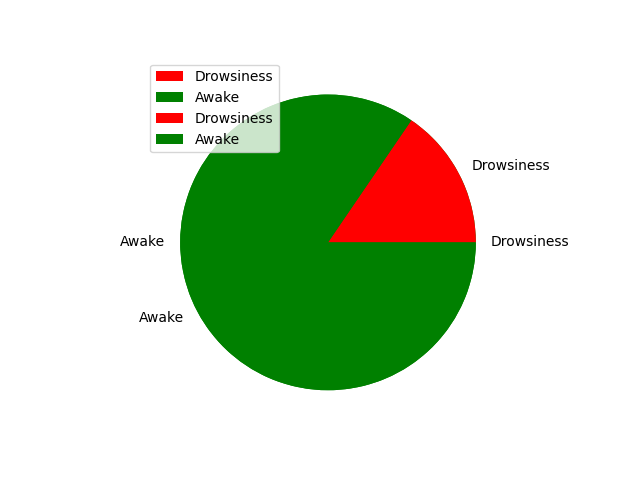
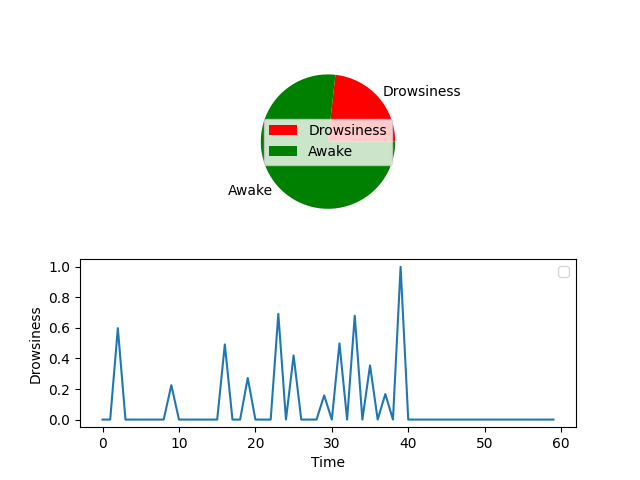
commit

diff --git a/app.py b/app.py
@@ -2,6 +2,7 @@ from flask import Flask,request,render_template,Response,redirect
 import cv2
 import dlib
 import pickle
+import random
 # from config import Config
 # import time
 # import numpy as np
@@ -71,9 +72,7 @@ def gen_frames():
     
     Var.yawn_count=0
     
-    # MAIN LOOP IT WILL RUN ALL THE UNLESS AND
-    # UNTIL THE PROGRAM IS BEING KILLED BY THE
-    # USER
+    
     while True:
         
         
@@ -88,8 +87,6 @@ def gen_frames():
             rightEye = []
             yawn=[]
      
-            # THESE ARE THE POINTS ALLOCATION FOR THE
-            # LEFT EYES IN .DAT FILE THAT ARE FROM 42 TO 47
             for n in range(42, 48):
                 x1 = face_landmarks.part(n).x
                 y1 = face_landmarks.part(n).y
@@ -101,8 +98,7 @@ def gen_frames():
                 y2 = face_landmarks.part(next_point).y
                 cv2.line(frame, (x1, y1), (x2, y2), (0, 255, 0), 1)
      
-            # THESE ARE THE POINTS ALLOCATION FOR THE
-            # RIGHT EYES IN .DAT FILE THAT ARE FROM 36 TO 41
+            
             for n in range(36, 42):
                 x1 = face_landmarks.part(n).x
                 y1 = face_landmarks.part(n).y
@@ -150,14 +146,14 @@ def gen_frames():
                 # wave_obj = simpleaudio.WaveObject.from_wave_file("alarm.mp3")
                 # play_obj = wave_obj.play()
                 # play_obj.wait_done()
-                Var.eye_drow_sec.append(0.50)
+                Var.eye_drow_sec.append(random.uniform(0,1))
                 
 
             Var.eye_drow_sec.append(0)   
             if yawn_data > 0.5:
                 
                 Var.yawn_count=Var.yawn_count+1
-                Var.yawn_sec.append(0.50)
+                Var.yawn_sec.append(random.uniform(0,1))
                 cv2.putText(frame, "Yawning", (100, 450),
                             cv2.FONT_HERSHEY_PLAIN, 2, (21, 56, 210), 3)
                 
@@ -298,16 +294,16 @@ def home():
     print(username)
     # global t
     # global yawn_count
-    deccelerate=sum(Var.eye_drow_sec)+Var.yawn_count+sum(Var.yawn_sec)
+    deccelerate=(sum(Var.eye_drow_sec)+Var.yawn_count+sum(Var.yawn_sec))/3
     print(deccelerate)
     userdetails={'dec':deccelerate}
     print(sum(Var.eye_drow_sec))
     alert=model.predict([[sum(Var.eye_drow_sec),Var.yawn_count,sum(Var.yawn_sec)]])
     print("alert is",alert[0])
     if alert[0]==1:
-        if deccelerate>45:
+        if deccelerate>30:
             userdetails['low']='0'
-            userdetails['high']='5'
+            userdetails['high']='10'
             userdetails['color']='red'
             json_data = {'alert':'true'}   
             # name = "abbas"
@@ -316,26 +312,32 @@ def home():
             # firebase1.post("/contact", new_data)
             u = db.child("contact").child(username).update(json_data)
             print("done")
-            dr=Var.eye_drow_sec.count(0.5)
+            
             ndr=Var.eye_drow_sec.count(0)
+            dr=len(Var.eye_drow_sec)-ndr
+            figure, axis = plt.subplots(2, 1)
             file_path = str(username)+".png"
-            plt.pie([dr,ndr],labels=['Drowsiness','Awake'],colors=['red','green'])
-            plt.legend()
-    
+            figure, axis = plt.subplots(2, 1)
+            axis[0].pie([dr,ndr],labels=['Drowsiness','Awake'],colors=['red','green'])
+            axis[0].legend()
+            axis[1].plot(Var.eye_drow_sec[0:60])
+            axis[1].set_xlabel('Time')
+            axis[1].set_ylabel('Drowsiness')
+            axis[1].legend()
             plt.savefig(file_path)
-            # auth_id = 'MANJKWMTQ3YZLJOWI3MJ'
-            # auth_token = 'ZTk0MzYwNTdkYTJkNTI2MzZlNjRlMTAyNmM0NjRj'
-            # phlo_id = '71b3cd61-3d32-48e2-838f-497a4d06706e' # https://console.plivo.com/phlo/list/
-            # phlo_client = plivo.phlo.RestClient(auth_id=auth_id, auth_token=auth_token)
-            # phlo = phlo_client.phlo.get(phlo_id)
-            # phlo.run() 
+            auth_id = 'MANJKWMTQ3YZLJOWI3MJ'
+            auth_token = 'ZTk0MzYwNTdkYTJkNTI2MzZlNjRlMTAyNmM0NjRj'
+            phlo_id = '71b3cd61-3d32-48e2-838f-497a4d06706e' # https://console.plivo.com/phlo/list/
+            phlo_client = plivo.phlo.RestClient(auth_id=auth_id, auth_token=auth_token)
+            phlo = phlo_client.phlo.get(phlo_id)
+            phlo.run() 
             
             bucket = storage.bucket() # storage bucket
             blob = bucket.blob(file_path)
             blob.upload_from_filename(file_path)
-        elif deccelerate>30:
-            userdetails['low']='5'
-            userdetails['high']='10'
+        elif deccelerate>25:
+            userdetails['low']='10'
+            userdetails['high']='20'
             userdetails['color']='yellow'
             json_data = {'alert':'true'}   
             # name = "abbas"
@@ -344,26 +346,31 @@ def home():
             # firebase1.post("/contact", new_data)
             u = db.child("contact").child(username).update(json_data)
             print("done")
-            dr=Var.eye_drow_sec.count(0.5)
+            
             ndr=Var.eye_drow_sec.count(0)
+            dr=len(Var.eye_drow_sec)-ndr
             file_path = str(username)+".png"
-            plt.pie([dr,ndr],labels=['Drowsiness','Awake'],colors=['red','green'])
-            plt.legend()
-    
+            figure, axis = plt.subplots(2, 1)
+            axis[0].pie([dr,ndr],labels=['Drowsiness','Awake'],colors=['red','green'])
+            axis[0].legend()
+            axis[1].plot(Var.eye_drow_sec[0:60])
+            axis[1].set_xlabel('Time')
+            axis[1].set_ylabel('Drowsiness')
+            axis[1].legend()
             plt.savefig(file_path)
-            # auth_id = 'MANJKWMTQ3YZLJOWI3MJ'
-            # auth_token = 'ZTk0MzYwNTdkYTJkNTI2MzZlNjRlMTAyNmM0NjRj'
-            # phlo_id = '71b3cd61-3d32-48e2-838f-497a4d06706e' # https://console.plivo.com/phlo/list/
-            # phlo_client = plivo.phlo.RestClient(auth_id=auth_id, auth_token=auth_token)
-            # phlo = phlo_client.phlo.get(phlo_id)
-            # phlo.run() 
+            auth_id = 'MANJKWMTQ3YZLJOWI3MJ'
+            auth_token = 'ZTk0MzYwNTdkYTJkNTI2MzZlNjRlMTAyNmM0NjRj'
+            phlo_id = '71b3cd61-3d32-48e2-838f-497a4d06706e' # https://console.plivo.com/phlo/list/
+            phlo_client = plivo.phlo.RestClient(auth_id=auth_id, auth_token=auth_token)
+            phlo = phlo_client.phlo.get(phlo_id)
+            phlo.run() 
             
             bucket = storage.bucket() # storage bucket
             blob = bucket.blob(file_path)
             blob.upload_from_filename(file_path)
         elif deccelerate>20:
-            userdetails['low']='10'
-            userdetails['high']='12'
+            userdetails['low']='20'
+            userdetails['high']='40'
             userdetails['color']='blue'
             json_data = {'alert':'true'}   
             # name = "abbas"
@@ -372,26 +379,31 @@ def home():
             # firebase1.post("/contact", new_data)
             u = db.child("contact").child(username).update(json_data)
             print("done")
-            dr=Var.eye_drow_sec.count(0.5)
+            
             ndr=Var.eye_drow_sec.count(0)
+            dr=len(Var.eye_drow_sec)-ndr
             file_path = str(username)+".png"
-            plt.pie([dr,ndr],labels=['Drowsiness','Awake'],colors=['red','green'])
-            plt.legend()
-    
+            figure, axis = plt.subplots(2, 1)
+            axis[0].pie([dr,ndr],labels=['Drowsiness','Awake'],colors=['red','green'])
+            axis[0].legend()
+            axis[1].plot(Var.eye_drow_sec[0:60])
+            axis[1].set_xlabel('Time')
+            axis[1].set_ylabel('Drowsiness')
+            axis[1].legend()
             plt.savefig(file_path)
-            # auth_id = 'MANJKWMTQ3YZLJOWI3MJ'
-            # auth_token = 'ZTk0MzYwNTdkYTJkNTI2MzZlNjRlMTAyNmM0NjRj'
-            # phlo_id = '71b3cd61-3d32-48e2-838f-497a4d06706e' # https://console.plivo.com/phlo/list/
-            # phlo_client = plivo.phlo.RestClient(auth_id=auth_id, auth_token=auth_token)
-            # phlo = phlo_client.phlo.get(phlo_id)
-            # phlo.run() 
+            auth_id = 'MANJKWMTQ3YZLJOWI3MJ'
+            auth_token = 'ZTk0MzYwNTdkYTJkNTI2MzZlNjRlMTAyNmM0NjRj'
+            phlo_id = '71b3cd61-3d32-48e2-838f-497a4d06706e' # https://console.plivo.com/phlo/list/
+            phlo_client = plivo.phlo.RestClient(auth_id=auth_id, auth_token=auth_token)
+            phlo = phlo_client.phlo.get(phlo_id)
+            phlo.run() 
             
             bucket = storage.bucket() # storage bucket
             blob = bucket.blob(file_path)
             blob.upload_from_filename(file_path)
         else:
-            userdetails['low']='12'
-            userdetails['high']='18'
+            userdetails['low']='40'
+            userdetails['high']='50'
             userdetails['color']='green'
             json_data = {'alert':'true'}   
             # name = "abbas"
@@ -400,35 +412,46 @@ def home():
             # firebase1.post("/contact", new_data)
             u = db.child("contact").child(username).update(json_data)
             print("done")
-            dr=Var.eye_drow_sec.count(0.5)
+            
             ndr=Var.eye_drow_sec.count(0)
+            dr=len(Var.eye_drow_sec)-ndr
             file_path = str(username)+".png"
-            plt.pie([dr,ndr],labels=['Drowsiness','Awake'],colors=['red','green'])
-            plt.legend()
-    
+            figure, axis = plt.subplots(2, 1)
+            axis[0].pie([dr,ndr],labels=['Drowsiness','Awake'],colors=['red','green'])
+            axis[0].legend()
+            axis[1].plot(Var.eye_drow_sec[0:60])
+            axis[1].set_xlabel('Time')
+            axis[1].set_ylabel('Drowsiness')
+            axis[1].legend()
             plt.savefig(file_path)
-            # auth_id = 'MANJKWMTQ3YZLJOWI3MJ'
-            # auth_token = 'ZTk0MzYwNTdkYTJkNTI2MzZlNjRlMTAyNmM0NjRj'
-            # phlo_id = '71b3cd61-3d32-48e2-838f-497a4d06706e' # https://console.plivo.com/phlo/list/
-            # phlo_client = plivo.phlo.RestClient(auth_id=auth_id, auth_token=auth_token)
-            # phlo = phlo_client.phlo.get(phlo_id)
-            # phlo.run() 
+            auth_id = 'MANJKWMTQ3YZLJOWI3MJ'
+            auth_token = 'ZTk0MzYwNTdkYTJkNTI2MzZlNjRlMTAyNmM0NjRj'
+            phlo_id = '71b3cd61-3d32-48e2-838f-497a4d06706e' # https://console.plivo.com/phlo/list/
+            phlo_client = plivo.phlo.RestClient(auth_id=auth_id, auth_token=auth_token)
+            phlo = phlo_client.phlo.get(phlo_id)
+            phlo.run() 
             
             bucket = storage.bucket() # storage bucket
             blob = bucket.blob(file_path)
             blob.upload_from_filename(file_path)
     else:
-        userdetails['low']='Average'
-        userdetails['high']='Speed'
+        userdetails['low']='60'
+        userdetails['high']='80'
         userdetails['color']='green'
         json_data = {'alert':'false'}    
         u = db.child("contact").child(username).update(json_data)
         print("done")
-        dr=Var.eye_drow_sec.count(0.5)
+        
         ndr=Var.eye_drow_sec.count(0)
+        dr=len(Var.eye_drow_sec)-ndr
         file_path = str(username)+".png"
-        plt.pie([dr,ndr],labels=['Drowsiness','Awake'],colors=['red','green'])
-        plt.legend()
+        figure, axis = plt.subplots(2, 1)
+        axis[0].pie([dr,ndr],labels=['Drowsiness','Awake'],colors=['red','green'])
+        axis[0].legend()
+        axis[1].plot(Var.eye_drow_sec[0:75])
+        axis[1].set_xlabel('Time')
+        axis[1].set_ylabel('Drowsiness')
+        axis[1].legend()
         plt.savefig(file_path)
         bucket = storage.bucket() # storage bucket
         blob = bucket.blob(file_path)
